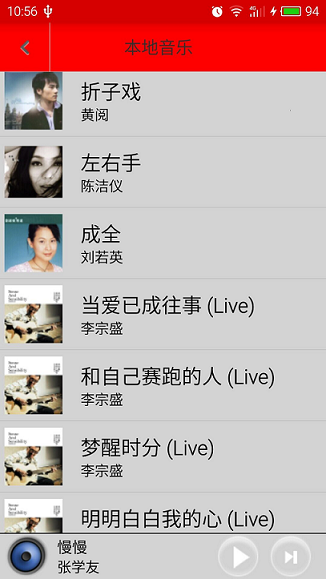
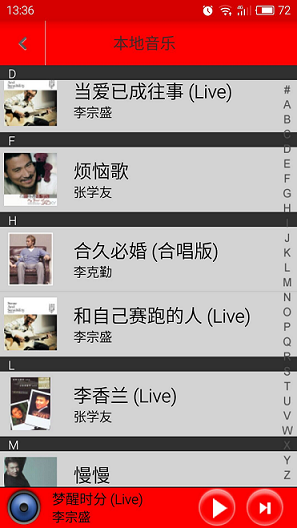
update sorted by pinyin

diff --git a/src/com/whut/activitys/SongListActivity.java b/src/com/whut/activitys/SongListActivity.java
@@ -111,8 +111,7 @@ public class SongListActivity extends Activity implements OnClickListener,
 
 	private static SongServiceDao songServiceDao;
 	private static ModelServiceDao modelServiceDao;
-	
-	
+
 	/**
 	 * 分组的布局
 	 */
@@ -147,7 +146,6 @@ public class SongListActivity extends Activity implements OnClickListener,
 	 * 上次第一个可见元素，用于滚动时记录标识。
 	 */
 	private int lastFirstVisibleItem = -1;
-	
 
 	public static int getCurrentPosition() {
 		return currentPosition;
@@ -278,7 +276,7 @@ public class SongListActivity extends Activity implements OnClickListener,
 	public void initData() {
 
 		songList = songServiceDao.getAllSong();
-	
+
 		isPlaying = MusicManager.isPlaying();
 		currentSong = songServiceDao.getCurrentSong();
 		currentId = currentSong.getId();
@@ -288,7 +286,7 @@ public class SongListActivity extends Activity implements OnClickListener,
 		isServiceOpen = MusicManager.isServiceOpen();
 
 		songListAdapter = new SongListAdapter(songList, context);
-		
+
 	}
 
 	public void initView() {
@@ -303,17 +301,17 @@ public class SongListActivity extends Activity implements OnClickListener,
 		back_Btn = (ImageView) findViewById(R.id.back);
 		// song_progressBar = (ProgressBar) findViewById(R.id.song_progress);
 		// song_progressBar.setMax(duration);
-		
+
 		alphabet_titleLayout = (LinearLayout) findViewById(R.id.title_alphabet);
 		alphabetTitle = (TextView) findViewById(R.id.tv_alphabet);
 		alphabetButton = (Button) findViewById(R.id.alphabetButton);
 		sectionToastLayout = (RelativeLayout) findViewById(R.id.section_toast_layout);
 		sectionToastText = (TextView) findViewById(R.id.section_toast_text);
-		
+
 		if (songList.size() > 0) {
 			setupContactsListView();
 			setAlpabetListener();
-		}	
+		}
 		songImage.setBackgroundResource(R.drawable.app_music);
 
 		if (isPlaying) {
@@ -345,11 +343,11 @@ public class SongListActivity extends Activity implements OnClickListener,
 		objectAnimatorPre = ObjectAnimator.ofFloat(songImage, "rotation", 0f,
 				180f);
 		objectAnimatorPre.setDuration(3000);
-		
+
 		objectAnimatorNext = ObjectAnimator.ofFloat(songImage, "rotation",
 				180f, 360f);
 		objectAnimatorNext.setDuration(3000);
-		
+
 		objectAnimatorPre.start();
 
 		// 动画状态监听
@@ -368,7 +366,6 @@ public class SongListActivity extends Activity implements OnClickListener,
 			}
 		});
 
-		
 	}
 
 	@Override
@@ -523,7 +520,7 @@ public class SongListActivity extends Activity implements OnClickListener,
 		msg = Msg_Music.NEXT;
 		startMusicService();
 	}
-	
+
 	/**
 	 * 为ListView设置监听事件，根据当前的滑动状态来改变分组的显示位置，从而实现挤压动画的效果。
 	 */
@@ -536,15 +533,19 @@ public class SongListActivity extends Activity implements OnClickListener,
 			}
 
 			@Override
-			public void onScroll(AbsListView view, int firstVisibleItem, int visibleItemCount,
-					int totalItemCount) {
-				int section = songListAdapter.getSectionForPosition(firstVisibleItem) - 'A' + 1;
-				int nextSecPosition = songListAdapter.getPositionForSection(section + 1);
+			public void onScroll(AbsListView view, int firstVisibleItem,
+					int visibleItemCount, int totalItemCount) {
+				int section = songListAdapter
+						.getSectionForPosition(firstVisibleItem) - 'A' + 1;
+				int nextSecPosition = songListAdapter
+						.getPositionForSection(section + 1);
 				if (firstVisibleItem != lastFirstVisibleItem) {
-					MarginLayoutParams params = (MarginLayoutParams) alphabet_titleLayout.getLayoutParams();
+					MarginLayoutParams params = (MarginLayoutParams) alphabet_titleLayout
+							.getLayoutParams();
 					params.topMargin = 0;
 					alphabet_titleLayout.setLayoutParams(params);
-					alphabetTitle.setText(String.valueOf(alphabet.charAt(section)));
+					alphabetTitle.setText(String.valueOf(alphabet
+							.charAt(section)));
 				}
 				if (nextSecPosition == firstVisibleItem + 1) {
 					View childView = view.getChildAt(0);
@@ -587,20 +588,20 @@ public class SongListActivity extends Activity implements OnClickListener,
 				} else if (sectionPosition > 26) {
 					sectionPosition = 26;
 				}
-				String sectionLetter = String.valueOf(alphabet.charAt(sectionPosition));
-				int position = songListAdapter.getPositionForSection(sectionPosition);
+				String sectionLetter = String.valueOf(alphabet
+						.charAt(sectionPosition));
+				int position = songListAdapter
+						.getPositionForSection(sectionLetter.charAt(0));
 				switch (event.getAction()) {
 				case MotionEvent.ACTION_DOWN:
 					alphabetButton.setBackgroundResource(R.drawable.a_z_click);
 					sectionToastLayout.setVisibility(View.VISIBLE);
 					sectionToastText.setText(sectionLetter);
 					songListView.setSelection(position);
-					// TODO 滑动字母表，listview不能跟随滚动
 					break;
 				case MotionEvent.ACTION_MOVE:
 					sectionToastText.setText(sectionLetter);
 					songListView.setSelection(position);
-					songListAdapter.notifyDataSetChanged();
 					break;
 				default:
 					alphabetButton.setBackgroundResource(R.drawable.a_z);
@@ -610,7 +611,6 @@ public class SongListActivity extends Activity implements OnClickListener,
 			}
 		});
 	}
-
 
 	/**
 	 * 定义广播接收器
